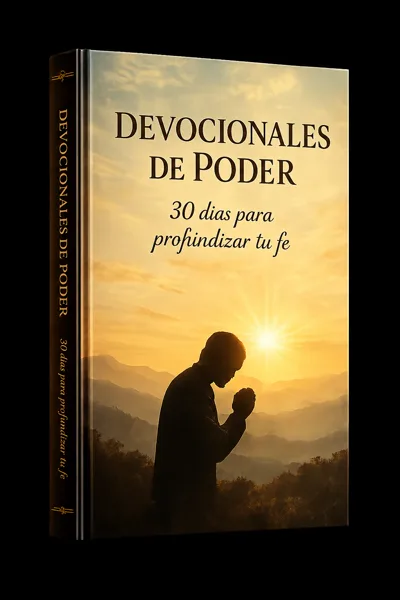
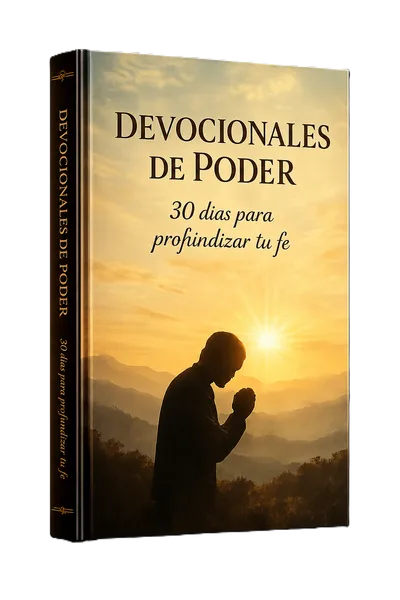
Atualiza mockups dos bônus 4 e 5
Substitui as imagens de Devocionales de Poder e Manual de
Interpretación Bíblica pelos mockups finais de capa. Ajusta a altura
do thumb do bônus 5 para refletir a nova proporção 2:3.

diff --git a/index.html b/index.html
@@ -929,7 +929,7 @@ height="0" width="0" style="display:none;visibility:hidden"></iframe></noscript>
       </li>
       <li class="bonos__item bonos__item--destaque">
         <div class="bonos__destaque-img">
-          <img class="bonos__thumb" src="img/bonus-05-manual.webp" alt="Mockup del bono Manual de Interpretación Bíblica" width="170" height="212" loading="lazy">
+          <img class="bonos__thumb" src="img/bonus-05-manual.webp" alt="Mockup del bono Manual de Interpretación Bíblica" width="170" height="255" loading="lazy">
           <span class="bonos__numero">05</span>
         </div>
         <div class="bonos__conteudo-texto">
